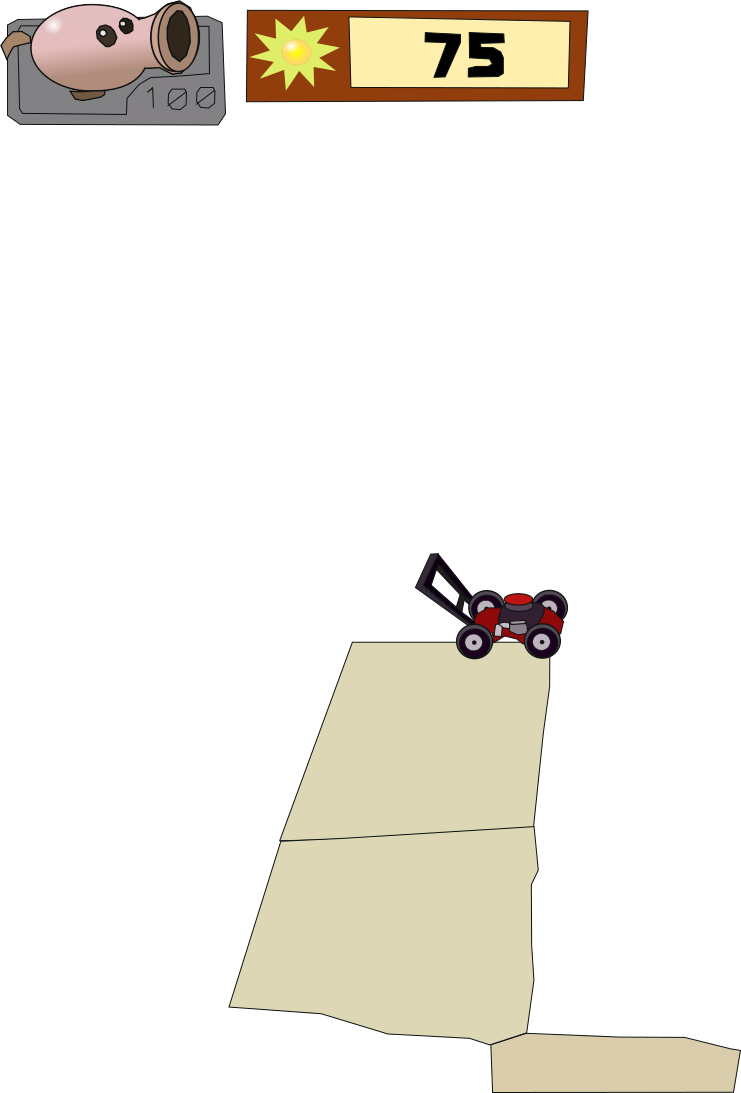
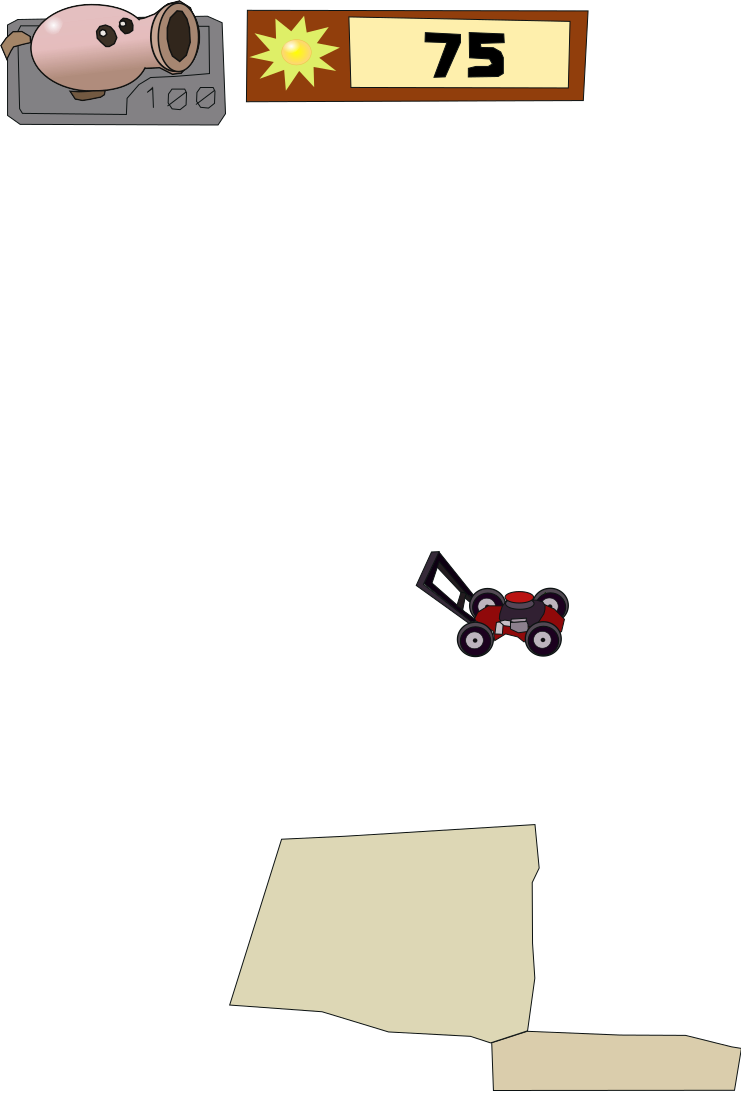
initial commit

diff --git a/index.html b/index.html
@@ -2,42 +2,69 @@
 
 <head>
 	<style>
+		.ground {
+			margin-top: calc(181px - 106px);
+			margin-left: 425px;
+		}
 		.ground-green {
 			position: absolute; 
 			top: calc(371px*0.7); 
 			left: calc(19px*0.7);
-
+			margin-top: calc(181px - 106px);
+			margin-left: 425px;
 		}
 		.road {
 			position: absolute;
-		  	left: calc(1666px*0.7 + -34px);
 		  	top: 26px;
+		  	left: calc(1666px*0.7 + -34px);
+		  	margin-top: calc(181px - 106px);
+		  	margin-left: 425px;
 
 		}
 		.zombie-land {
+			position: absolute;
 			top: 26px;
 			left: calc(1666px*0.7 + -34px);
+			margin-top: calc(181px - 106px);
+			margin-left: 425px;
+		}
+		.house {
 			position: absolute;
+			left: -14px;
+			top: 0px;
+		}
+		.sun-panel {
+			position: absolute;
+			left: 66px; 
+			top: 0px;
 		}
 		.zombie-story-moving {
 			position: absolute;
 			top: calc(371px*0.7 - 65px);
-			left: calc(1659px*0.7)
+			left: calc(1659px*0.7);
+			margin-top: calc(181px - 106px);
+  			margin-left: 425px;
 		}
 		.zombie-story-eats {
 			position: absolute;
 			top: calc(371px*0.7 - 65px);
-			left: calc(1659px*0.7 - 400px)
+			left: calc(1659px*0.7 - 400px);
+			margin-top: calc(181px - 106px);
+  			margin-left: 425px;
 		}
 		.plant-story-moving {
 			position: absolute;
 			top: calc(371px*0.7);
-			left: calc(1659px*0.7 - 740px)
+			left: calc(1659px*0.7 - 740px);
+			margin-top: calc(181px - 106px);
+			margin-left: 425px;
 		}
 		.ball-story-moving {
 			position: absolute;
 			top: calc(371px*0.7);
-			left: calc(1659px*0.7 - 660px)
+			left: calc(1659px*0.7 - 660px);
+			margin-top: calc(181px - 106px);
+  			margin-left: 425px;
 		}
 		
 
@@ -45,13 +72,19 @@
 </head>
 <body style="position: relative">
 
-	<img src="core-lib/ground.png" style="width: calc(1666px*0.7);">
+	<img class="ground" src="core-lib/ground.png" style="width: calc(1666px*0.7);">
+
 	<img class="road" src="core-lib/road.png" style="width: calc(1141px*0.7);">
+	
 	<img class="zombie-land" src="core-lib/zombie-land.png" style="width: calc(636px*0.7);">
 
-	<!-- <img class="sun-panel" src="core-lib/sun-panel.png" style="width: calc(741px*0.7);"> -->
-
 	<img class="ground-green" src="core-lib/ground-green.png" style="width: calc(1659px*0.7);">
+
+
+	<img class="house" src="core-lib/house.png" style="width: calc(679px*0.7);">
+
+	<img class="sun-panel" src="core-lib/sun-panel.png" style="width: calc(741px*0.7);">
+
 
 
 	<img class="plant-story-moving" src="core-lib/plant-stand.png" style="width: calc(132px*0.7);">
@@ -59,19 +92,7 @@
 	<img class="zombie-story-moving" src="core-lib/zombie-stand.png" style="width: calc(175px*0.7);">
 
 
-	<!-- <img class="zombie-stand" src="core-lib/zombie-stand.png" style="width: calc(175px*0.7);"> -->
-
-	<!-- <img class="zombie-movin" src="core-lib/zombie-movin.png" style="width: calc(175px*0.7);"> -->
-
-
-
 	<img class="zombie-story-eats" src="core-lib/zombie-stand.png" style="width: calc(175px*0.7);">
-
-	<!-- <img class="zombie-eats-1" src="core-lib/zombie-eat-1.png" style="width: calc(175px*0.7);"> -->
-
-	<!-- <img class="zombie-eats-2" src="core-lib/zombie-eat-2.png" style="width: calc(175px*0.7);"> -->
-
-	<!-- <img class="zombie-eats-3" src="core-lib/zombie-eat-3.png" style="width: calc(175px*0.7);"> -->
 
 
 	<img class="ball-story-moving" src="core-lib/ball.png" style="width: calc(45px*0.7);">
